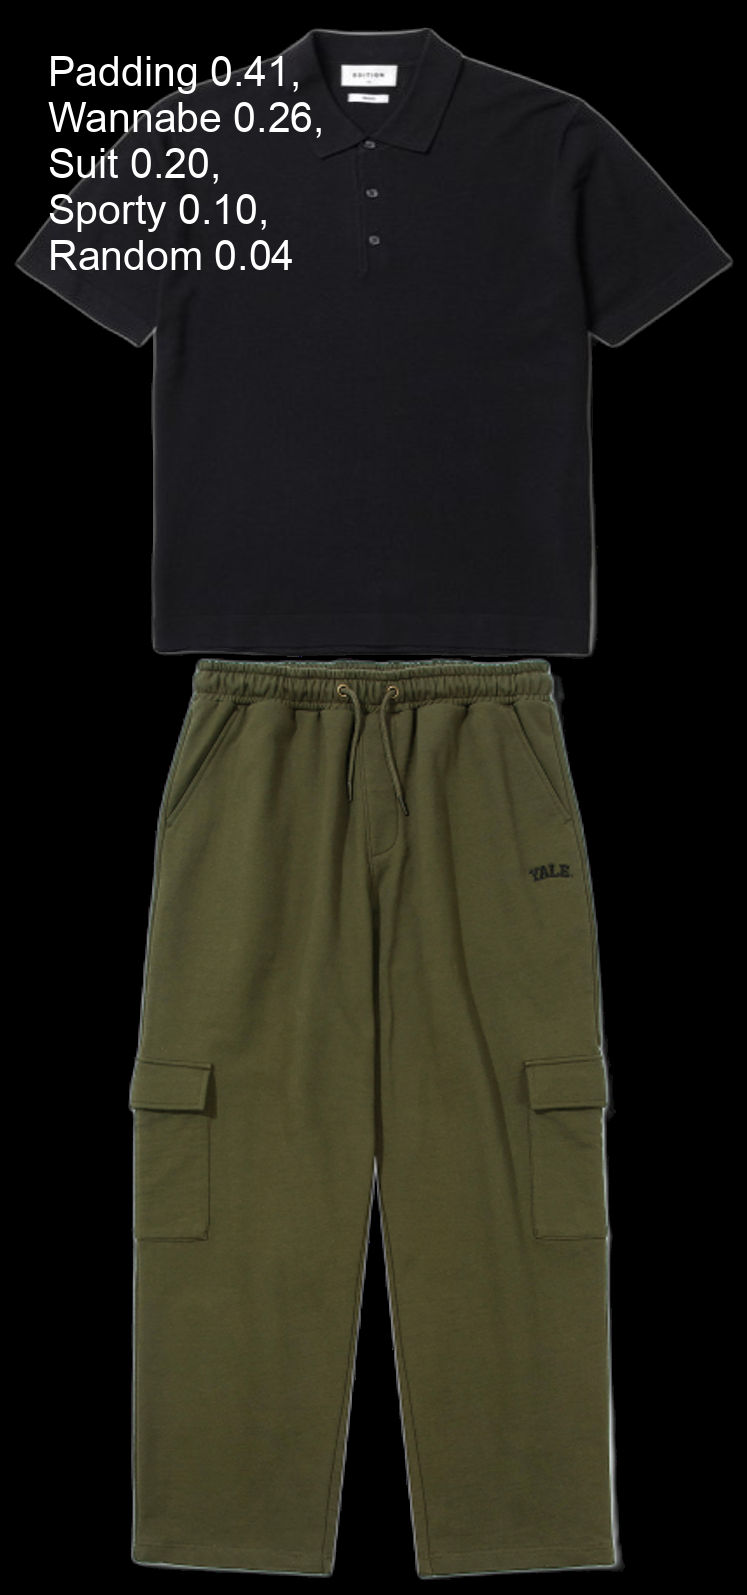
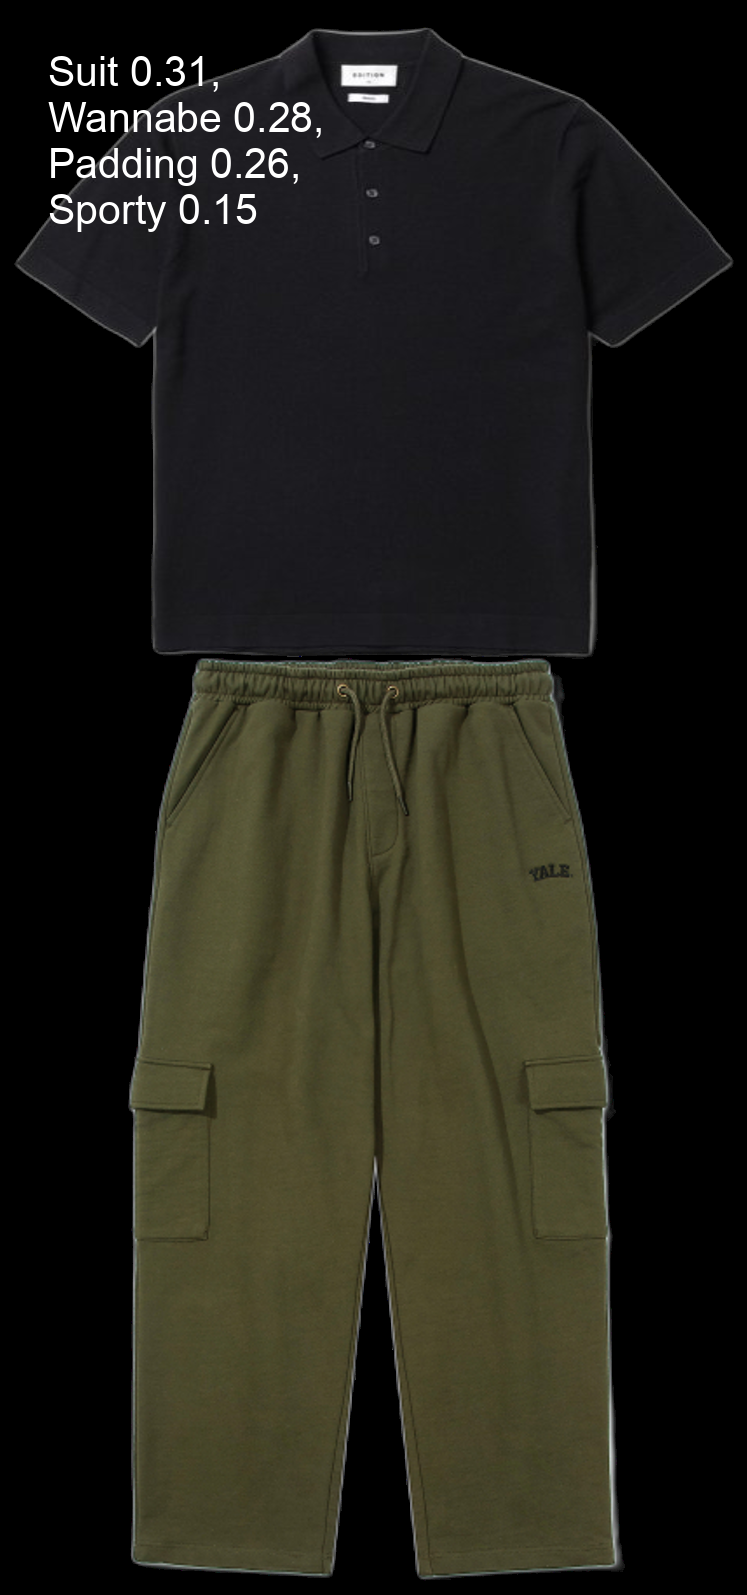
feat : Predict Top Bottom Combination Images by Epoch 20, 25 Model

Changed region(s): [[0.0616, 0.0922, 0.4003, 0.1843], [0.0616, 0.0307, 0.4003, 0.0614]]

diff --git a/model_predict.py b/model_predict.py
@@ -6,7 +6,7 @@ model = YOLO('/Users/seunghunjang/Desktop/WOOTD/results/BGR_X/Train_Models/train
 
 
 # Load Pretrained BGR Model Path
-model_BGR = YOLO('/Users/seunghunjang/Desktop/WOOTD/results/BGR/Train_BGR_Models/train6/weights/best.pt')
+model_BGR = YOLO('/Users/seunghunjang/Desktop/WOOTD/results/BGR/Train_BGR_Models/train5/weights/best.pt')
 
 
 # Predict Image Path
@@ -25,10 +25,10 @@ result_combination_path = '/Users/seunghunjang/Desktop/WOOTD/results/Combination
 
 
 # None Remove BackGround Model Test
-result = model.predict(source=predic_img_path, save=True, save_txt=True, project=result_path)
+#result = model.predict(source=predic_img_path, save=True, save_txt=True, project=result_path)
 
 # Remove BackGround Model Test
-result_bgr = model_BGR.predict(source=predic_BGR_img_path, save=True, save_txt=True, project=result_bgr_path)
+#result_bgr = model_BGR.predict(source=predic_BGR_img_path, save=True, save_txt=True, project=result_bgr_path)
 
 # Model Test Only Top/Bottom Clothes Combination
 result_combination = model_BGR.predict(source=top_bottom_path, save=True, save_txt=True, project=result_combination_path)
